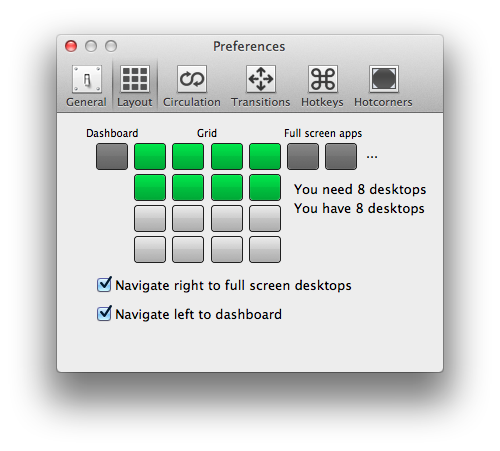
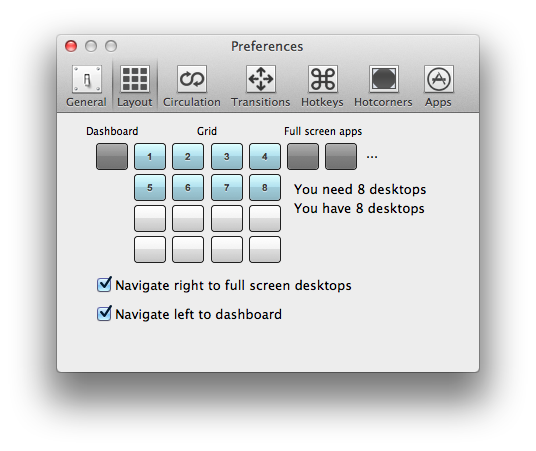
Mods for totalspaces v0.9.9

Changed region(s): [[0.09, 0.0621, 0.9, 0.8381], [0.18, 0.5898, 0.72, 0.6519], [0.18, 0.6829, 0.57, 0.714]]

diff --git a/changelog.html b/changelog.html
@@ -50,6 +50,46 @@
       <div class="release">
 				<div class="titlebox">
 					<h4>
+						<a href="http://downloads.binaryage.com/TotalSpaces-0.9.9.pkg">0.9.9</a>
+					</h4>
+					<h5>
+						5 May 2012
+					</h5>
+				</div>
+				<div class="infobox">
+					<ul class="changes">
+					  <li>
+							<span class="sticker new"><b>NEW</b></span> <span class="info">New preferences pane to assign apps to desktops</span>
+						</li>
+						<li>
+							<span class="sticker new"><b>NEW</b></span> <span class="info">5 fingered swipe to navigate between desktops (looking at 3 or 4 finger for future versions)</span>
+						</li>
+						<li>
+							<span class="sticker new"><b>NEW</b></span> <span class="info">Desktop numbers are shown in grid in layout preferences</span>
+						</li>
+						<li>
+							<span class="sticker fixed"><b>FIXED</b></span> <span class="info">Growl events are now named TotalSpacesChange and TotalSpacesCirculated</span>
+						</li>
+						<li>
+							<span class="sticker fixed"><b>FIXED</b></span> <span class="info">Vertical circulation no longer still operates if circulation is turned off</span>
+						</li>
+						<li>
+							<span class="sticker improved"><b>IMPROVED</b></span> <span class="info">Clearer status bar icon</span>
+						</li>
+						<li>
+							<span class="sticker fixed"><b>FIXED</b></span> <span class="info">Notification now fades properly when transitions are set slow</span>
+						</li>
+						<li>
+							<span class="sticker new"><b>NEW</b></span> <span class="info">Experimental Mountain Lion support (some known issues)</span>
+						</li>
+					</ul>
+				</div>
+			</div>
+          
+          
+      <div class="release">
+				<div class="titlebox">
+					<h4>
 						<a href="http://downloads.binaryage.com/TotalSpaces-0.9.8.zip">0.9.8</a>
 					</h4>
 					<h5>

diff --git a/index.md b/index.md
@@ -4,8 +4,8 @@ title: TotalSpaces app brings back grid Spaces to OS X Lion and more!
 product_title: TotalSpaces
 product_subtitle: brings back grid Spaces to OS X Lion and more!
 subtitle: brings back grid Spaces to OS X Lion and more!
-download: http://downloads.binaryage.com/TotalSpaces-0.9.8.zip
-downloadtitle: Download v0.9.8
+download: http://downloads.binaryage.com/TotalSpaces-0.9.9.pkg
+downloadtitle: Download v0.9.9
 facebook: 1
 retweet: 1
 buzz: 1
@@ -67,8 +67,42 @@ shots: [{
                 </a>
             </div>
             <div class="highlight-content wf">
-                <h3>Choose transitions and more</h3>
+                <h3>Choose your transitions</h3>
                 <p>Fully customizable transitions and hotkeys.</p>
+            </div>
+        </div>
+        <div class="highlight-separator"></div>
+        <div class="highlight" data-showcase="4">
+            <div class="highlight-icon hoverable" title="swipe between desktops">
+                <a href="/swipe">
+                    <div class="thumb-swipe"></div>
+                </a>
+            </div>
+            <div class="highlight-content wf">
+                <h3>Swipe between desktops</h3>
+                <p>Moving around your grid has never been easier</p>
+            </div>
+        </div>
+        <div class="highlight" data-showcase="5">
+            <div class="highlight-icon hoverable" title="read more about Hotcorners">
+                <a href="/hotcorners">
+                    <div class="thumb-hotcorners"></div>
+                </a>
+            </div>
+            <div class="highlight-content wf">
+                <h3>Hotcorners</h3>
+                <p>Trigger the overview grid just by moving your mouse.</p>
+            </div>
+        </div>
+        <div class="highlight last">
+            <div class="highlight-icon hoverable" title="read more about app assignments">
+              <a href="/apps">
+                <div class="thumb-app-assignments"></div>
+              </a>
+            </div>
+            <div class="highlight-content wf">
+                <h3>App assignments</h3>
+                <p>Keep your apps where you want them. Assign apps to desktops.</p>
             </div>
         </div>
         <br class="clear"/>

diff --git a/faq.md b/faq.md
@@ -16,10 +16,22 @@ Ultimately we hope to solve the problem by getting an internal notification from
 
 ## How can I make a particular app stay on a particular desktop in the grid?
 
-You can do this via the control-click, or right-click / double finger click menu from the Dock.
+You can now do this from the new [Apps preferences](/apps)
 
-When bring this menu up and choose Options, you can then assign the app to This desktop.
+## Why do you only support 5 finger swiping?
 
-So navigate to the desktop you want the app to occupy, then choose This desktop from the menu.
+It turns out that the way the trackpad driver and settings work make it very difficult to prevent 3 and 4 finger swipe gestures being delivered to other apps. We found during testing that some apps (like Safari and Xcode) get these events and change state when you are trying to change desktop with 3 or 4 finger gestures. Also the behaviour of the trackpad driver was not at all consistent.
 
-In the future we hope to add management of which apps are fixed to which desktops inside TotalSpaces, but until then you can use this method.
+So in order to avoid this we presently only support 5 finger swiping. This may change in the future as we certainly would wish to support fewer fingers.
+
+## How can I uninstall TotalSpaces?
+
+Use [the uninstaller](http://downloads.binaryage.com/UninstallTotalSpaces.app.zip).
+
+TotalSpaces is a normal app that can be dragged to the Trash, except for one additional file that must be removed from /Library/ScriptingAdditions.
+
+The uninstaller will remove this file along with the app itself, as well as restarting Dock so that no trace of TotalSpaces remains in the system.
+
+## Help, I can't see the menu bar icon!
+
+There is an option to hide the menu bar icon, and perhaps this is turned on for some reason. In order to re-show the menu bar icon, double click on TotalSpaces in your Applications folder (as if to launch the app). This should tell the app to show the menu bar icon again.

diff --git a/coming-features.md b/coming-features.md
@@ -18,18 +18,11 @@ The select grid could show both (or all) monitors' contents, not just the main s
 
 Windows could be able to be dragged from desktop to desktop via the edges of the screen, both up and down as well as the existing Lion support for left and right.
 
-## Locking apps to desktops
-
-Although you can lock an app to a desktop using the ctrl-click menu from the icons in your dock, this is very fiddly, and we wish to bring control of which app resides where inside the preferences of TotalSpaces.
-
 ## Naming desktops
 
 Right now the system names your desktops for you, but it's nice to name your own desktops.
 
-## Gesture support
-
-Changing desktops with gestures.
-
 ## Mountain Lion
 
-We intend to fully support Mountain Lion.
+We intend to fully support Mountain Lion. Version 0.9.9 adds experimental support. There are some known issues, including that some windows may temporarily disappear from the overview grid after exposé has been used.
+

diff --git a/navigation.md b/navigation.md
@@ -12,7 +12,11 @@ This shows you which desktop you came from, and which you are now on. (You can t
 
 If you attempt to navigate off the edge of the grid, and you have circulation turned off (so you cannot go that direction), then the notification will show to remind you of your current position.
 
-Note that the notification won't appear when you are going from or to a full screen app desktop, or the dashboard.
+If you have those options enabled, you can see the full screen apps and the dashboard alongside your grid, and you can navigate to these by using the direction hotkeys also.
+
+<img src="/images/navigation-notification-wide.png">
+
+But note that the notification doesn't show on the dashboard.
 
 You can also navigate using the "Overview Grid", a birds eye view of each of your desktops.
 

diff --git a/swipe.md b/swipe.md
@@ -1,0 +1,21 @@
+---
+layout: ts-doc
+title: TotalSpaces Swipe navigation
+subtitle: Swipe to navigate
+---
+
+You can select in the general preferences pane to enable 5 finger swiping on your trackpad to change desktops.
+
+<img src="/images/general-preferences.png">
+
+After you have turned this on, you can use the trackpad to move between the desktops in your grid.
+
+Use 5 fingers to move up, down, left and right.
+
+<img src="/images/swipe-fingers.png">
+
+We recommend that you turn off the Launchpad and Show desktop gestures in Trackpad preferences if you use this feature because they are reasonably easy to trigger by mistake.
+
+<img src="/images/trackpad-preferences.png">
+
+There's an <a href="/faq">FAQ about why we use 5 fingers</a>.

diff --git a/apps.md b/apps.md
@@ -1,0 +1,15 @@
+---
+layout: ts-doc
+title: TotalSpaces App Assignments
+subtitle: App Assignments
+---
+
+You can assign apps to always open on a particular desktop by using the Apps preferences.
+
+<img src="/images/apps-preferences.png">
+
+Press the + button to open a dialog and choose the application you want to assign. Then choose the desktop you want to assign it to from the dropdown list.
+
+These assignments allow you to choose where apps start, but note that you may still move windows from desktop to desktop - for instance by dragging them in the [Overview Grid](/overview "Overview grid").
+
+You can delete an app assignment by highlighting it and pressing the - (minus) button.
